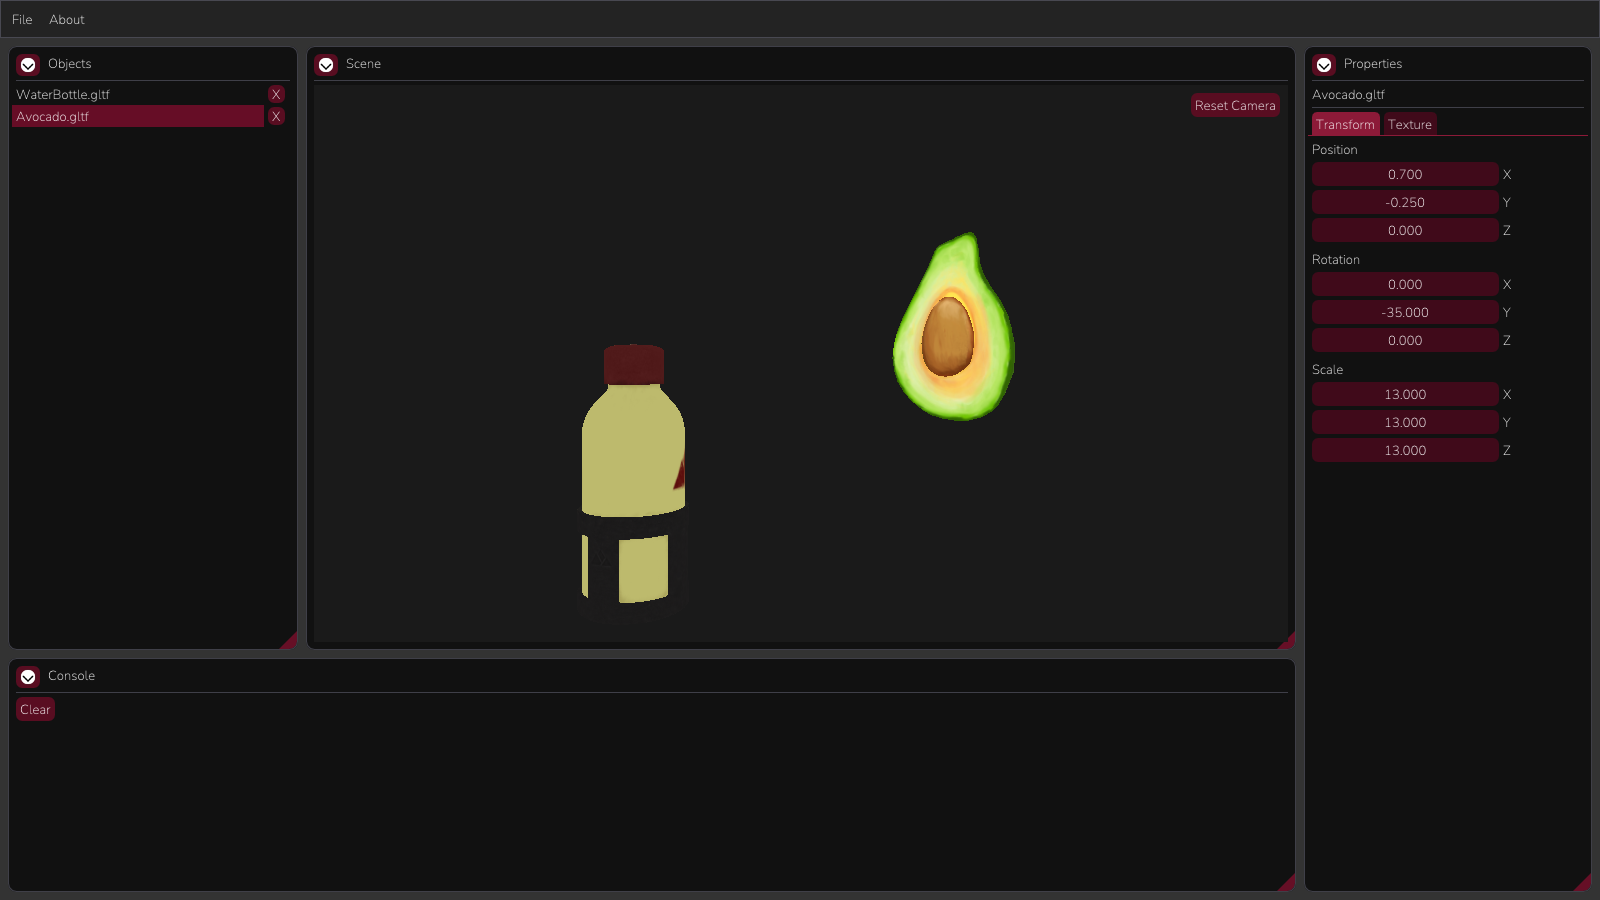
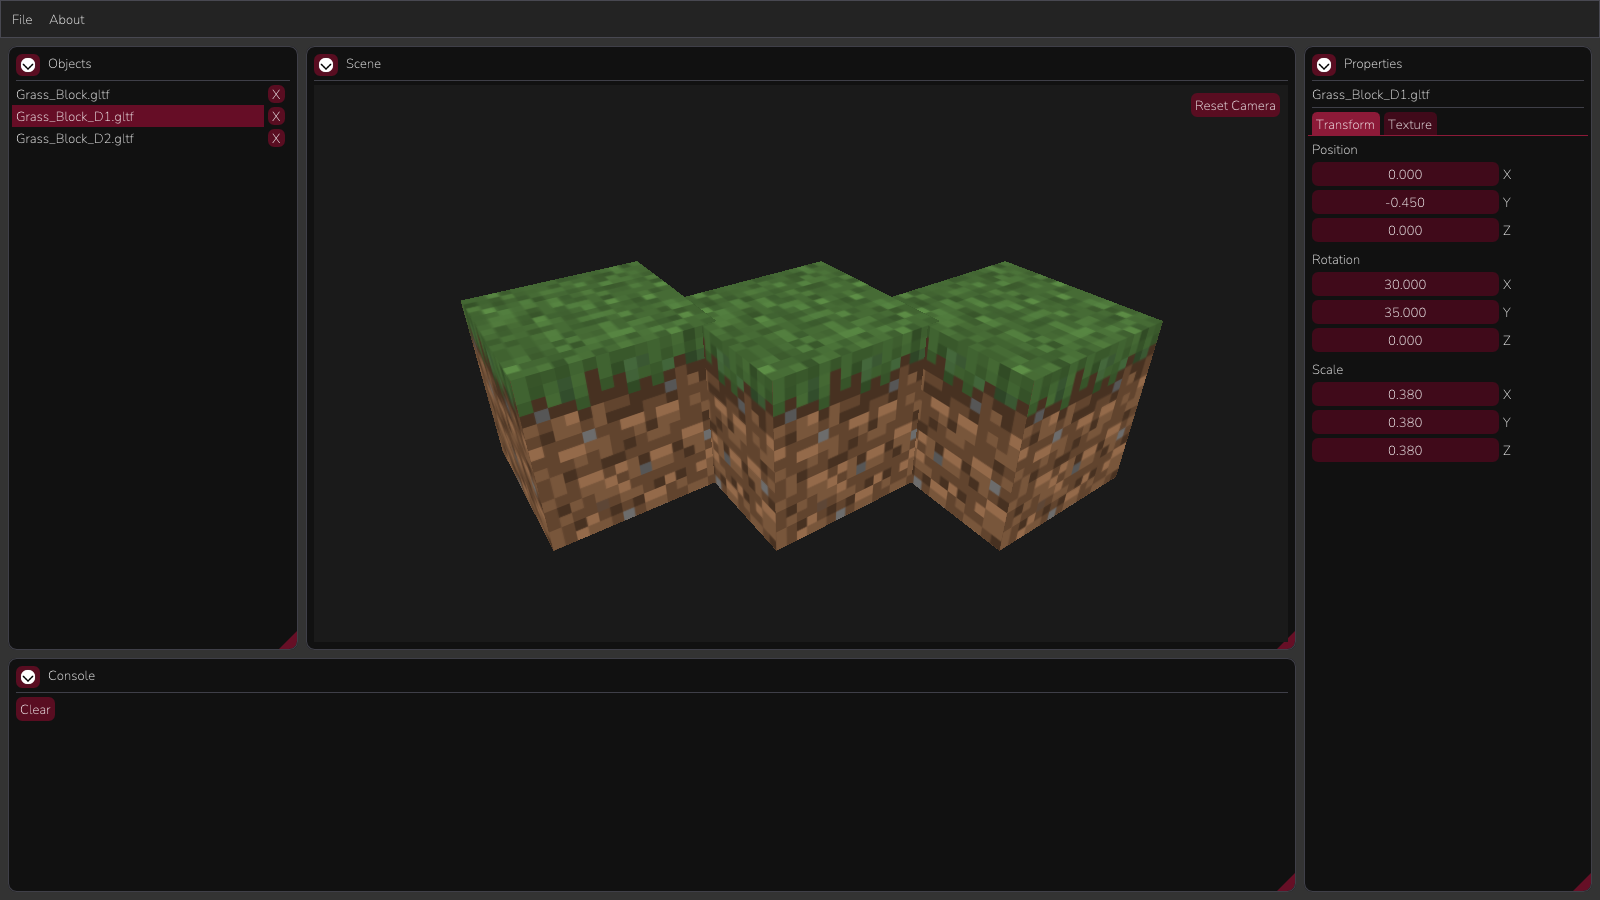
Update current build screenshots

diff --git a/README.md b/README.md
@@ -31,12 +31,10 @@ C++, OpenGL, GLFW, GLAD, GLM, Dear ImGui, Assimp, stb_image
 <img width="4032" height="3024" alt="IMG_8086" src="https://github.com/user-attachments/assets/3dbbd0f1-a08c-4efb-834f-c8faf73e8a09" />
 
 ## Current Build (11/06/26)
-Two models imported, each with its own texture, and the selected one's transform shown in the Properties panel.
+Three grass blocks imported and textured, with the selected one's transform shown in the Properties panel.
 
-<img width="1600" height="900" alt="RunBun Sandbox with two textured models in the scene" src="screenshots/current-main.png" />
+<img width="1600" height="900" alt="RunBun Sandbox with three textured grass blocks in the scene" src="screenshots/current-main.png" />
 
 Texture tab for the selected object.
 
 <img width="1600" height="900" alt="RunBun Sandbox Texture tab" src="screenshots/current-texture.png" />
-
-*Models in these screenshots are from the [Khronos glTF Sample Assets](https://github.com/KhronosGroup/glTF-Sample-Assets) (CC0).*
